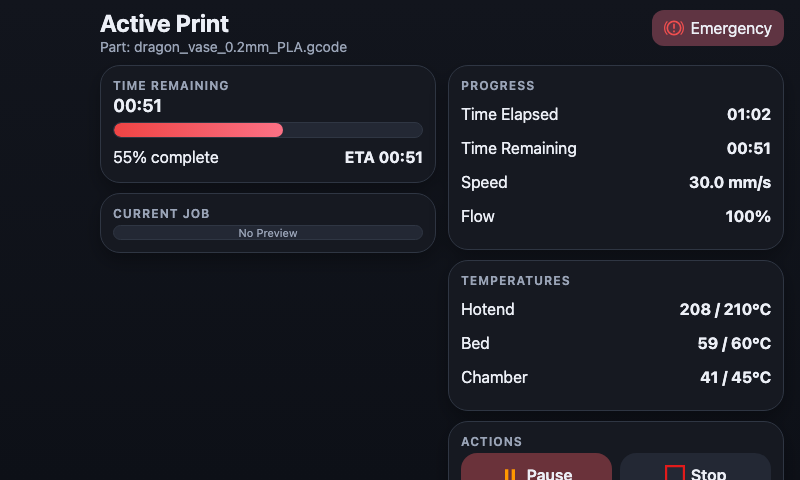
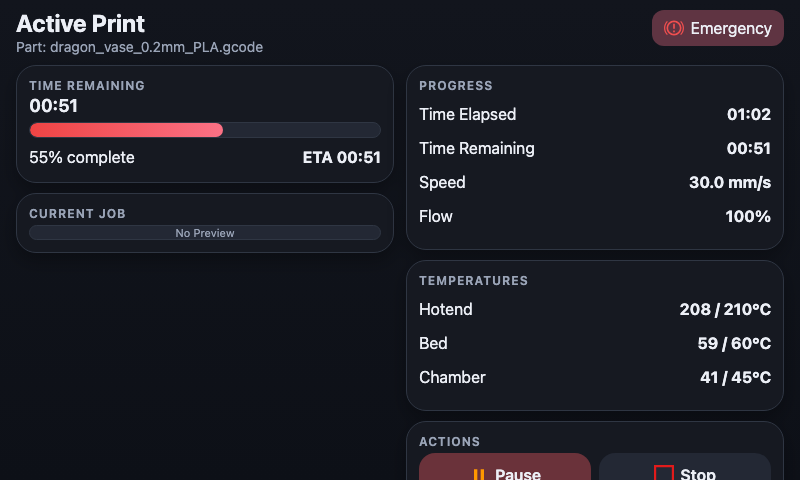
fixed active print on horizontal so it uses full width

diff --git a/src/styles/theme.css b/src/styles/theme.css
@@ -1771,6 +1771,10 @@ body[data-theme='white'] .exclude-grid-line {
     padding: 10px 16px 10px 100px;
   }
 
+  .screen.menu-hidden {
+    padding-left: 16px;
+  }
+
   .screen > .header,
   .screen > .status-row,
   .screen > .progress-bar {
